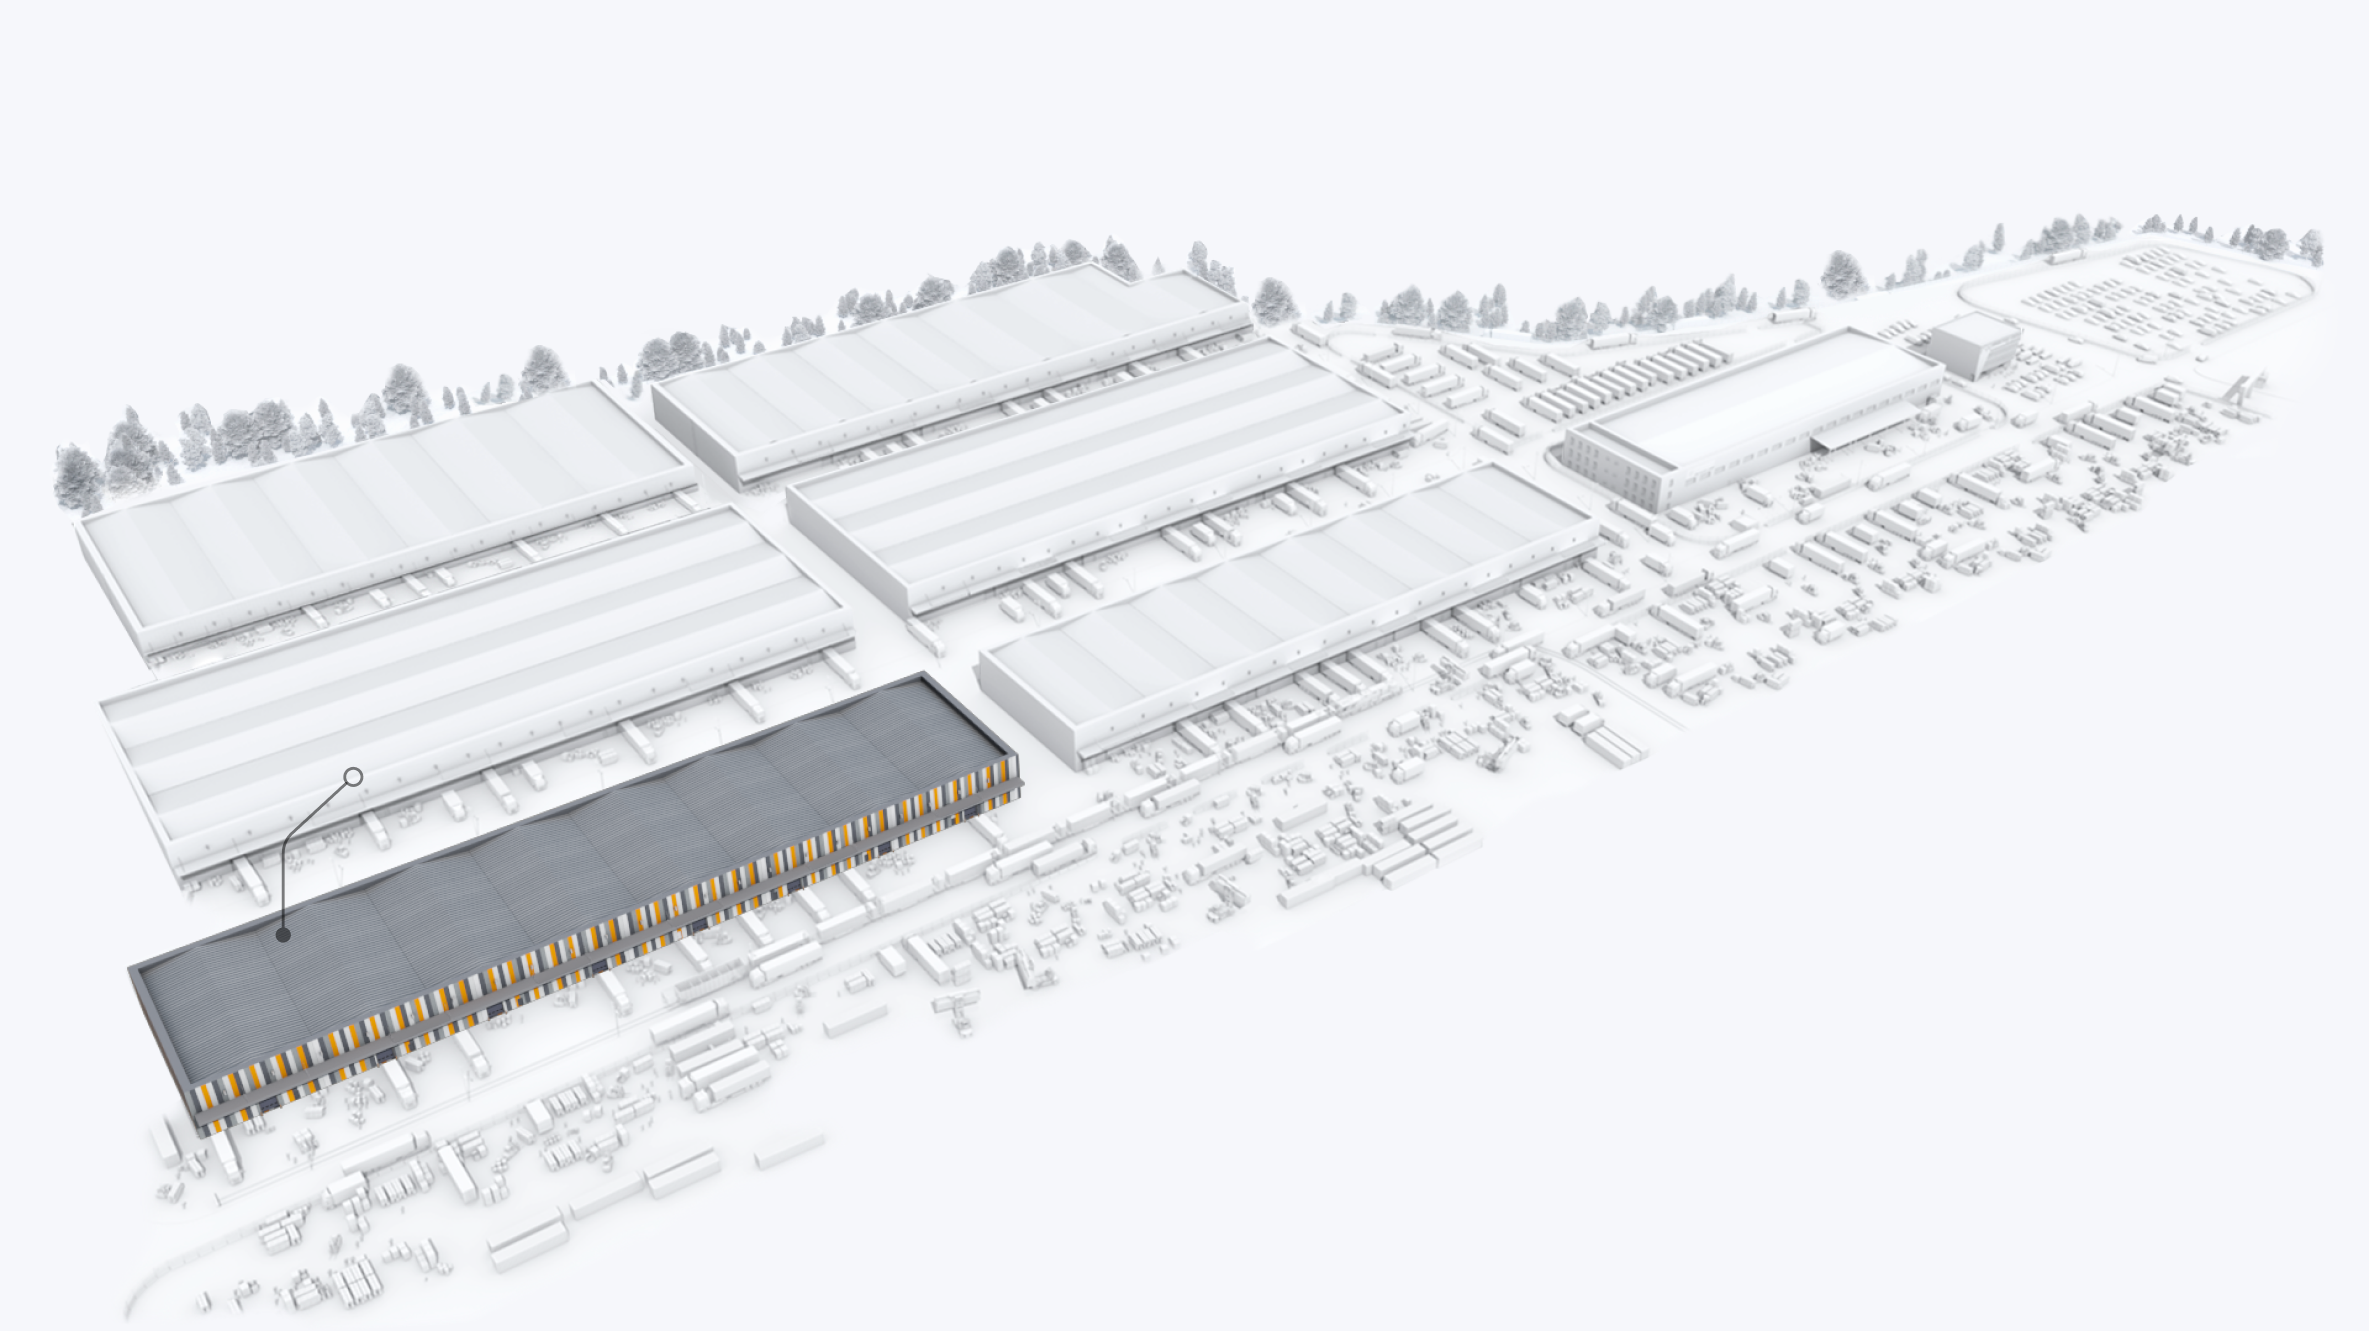
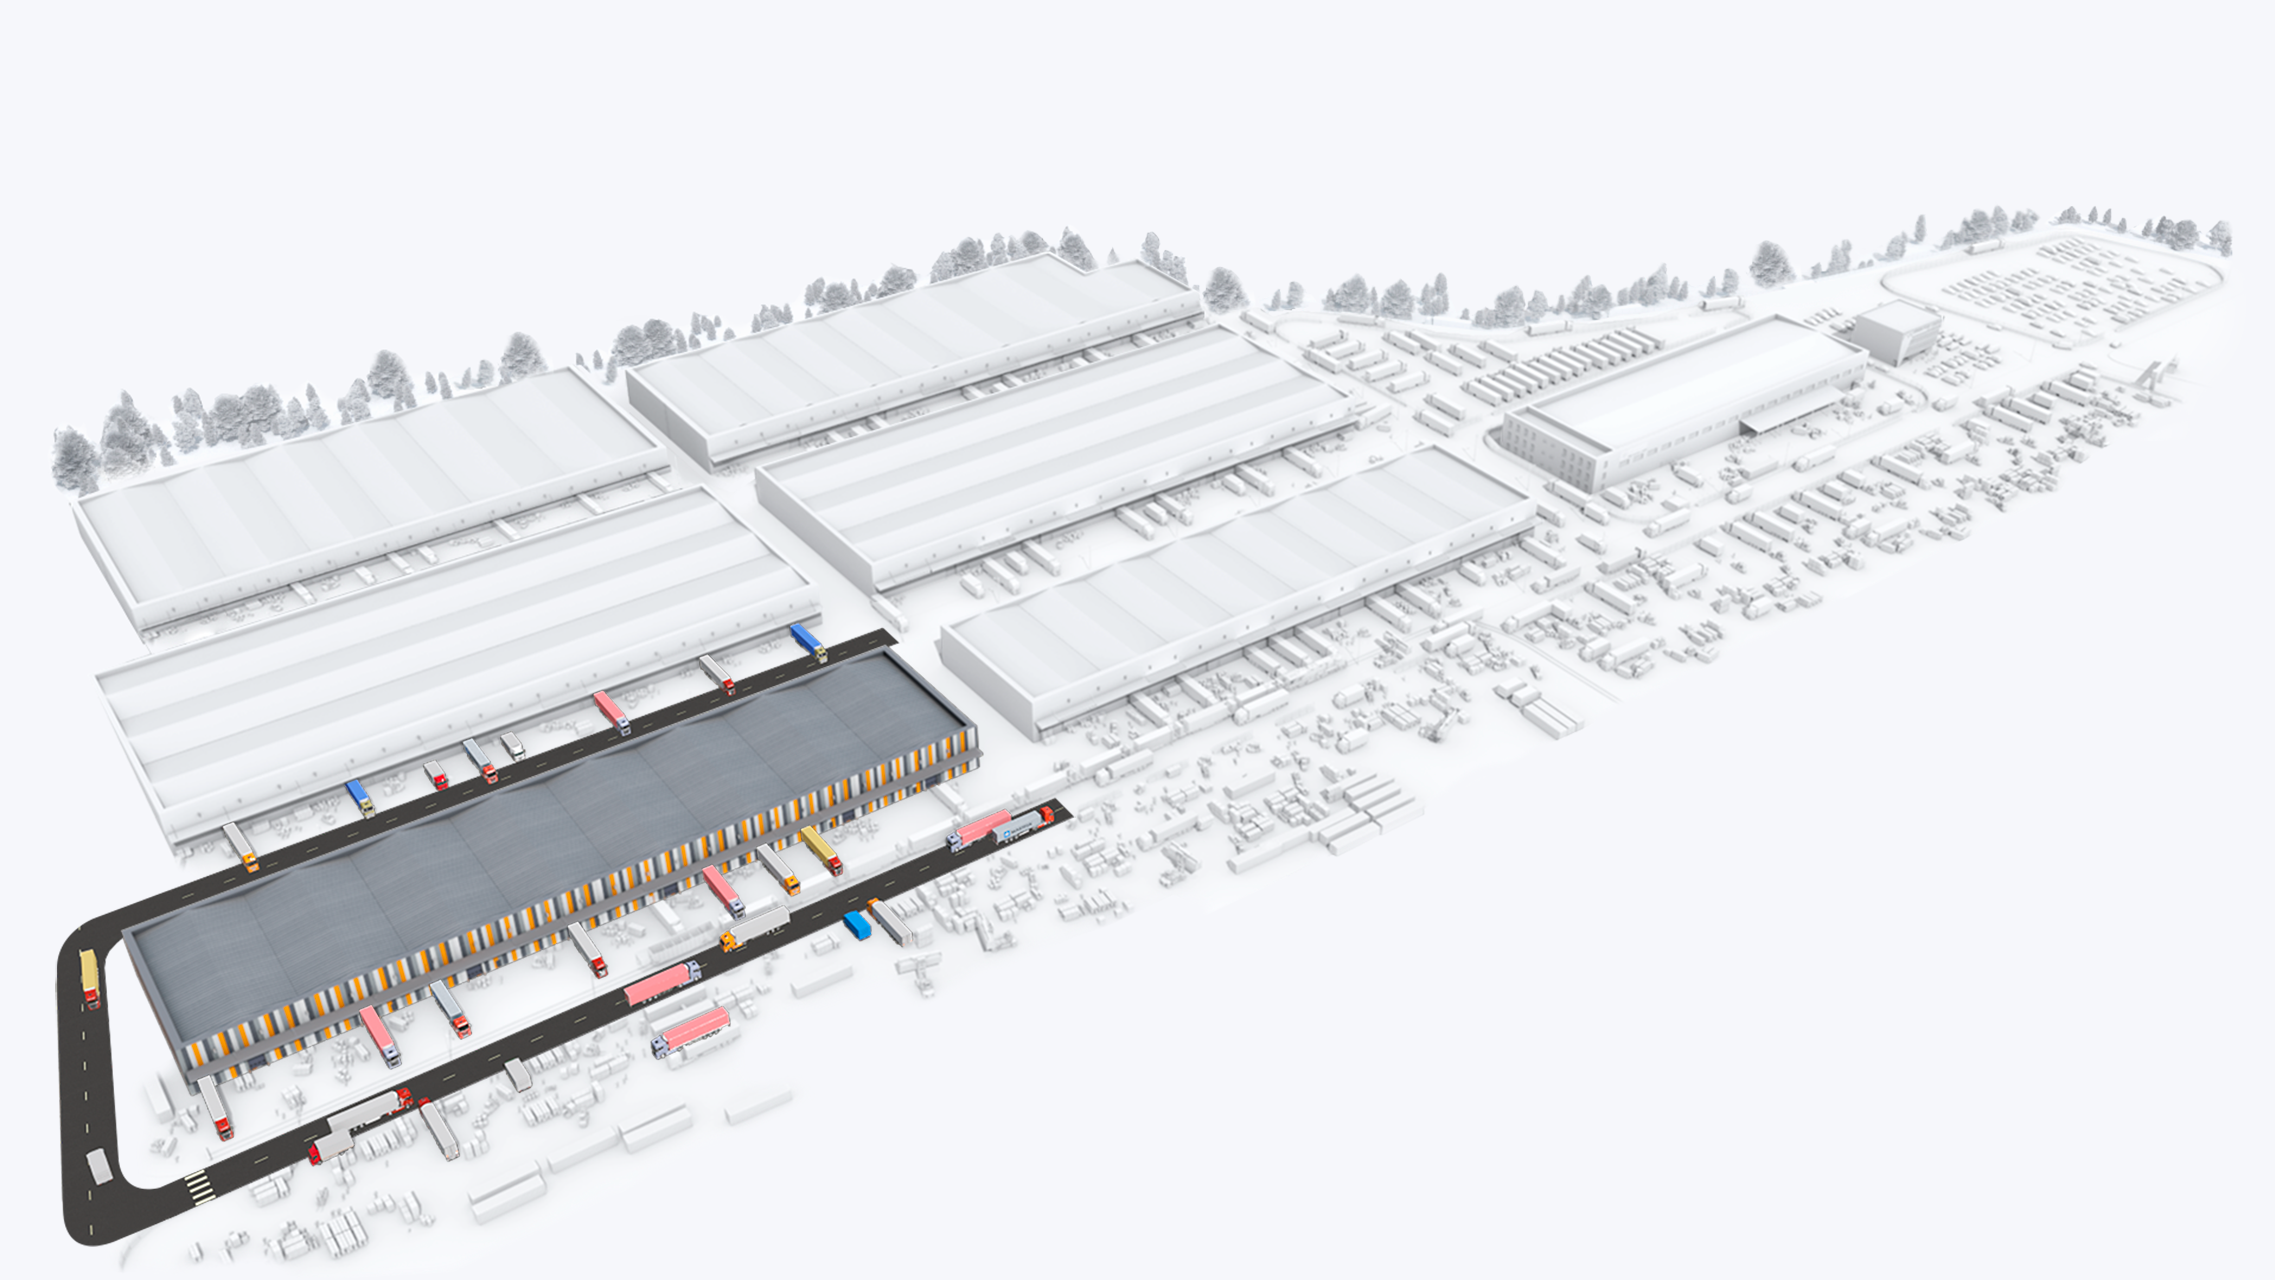
Updated

Changed region(s): [[0.0, 0.4688, 0.4681, 0.9688]]

diff --git a/opportunities/master-plan.html b/opportunities/master-plan.html
@@ -286,6 +286,8 @@
             <img class="Sidepanel-Map-hover-img-item" src="../assets/map/faza_1_b_hover.png" data-target="faza_1_b">
             <img class="Sidepanel-Map-hover-img-item" src="../assets/map/faza_2_a_hover.png" data-target="faza_2_a">
             <img class="Sidepanel-Map-hover-img-item" src="../assets/map/faza_2_b_hover.png" data-target="faza_2_b">
+            <img class="Sidepanel-Map-hover-img-item" src="../assets/map/faza_3_a_hover.png" data-target="faza_3_a">
+            <img class="Sidepanel-Map-hover-img-item" src="../assets/map/faza_3_b_hover.png" data-target="faza_3_b">
         </div>
         <!-- Map images - use unique IDs -->
         <img class="Sidepanel-Map-hover-img" src="../assets/map/empy.png" id="map_default">
@@ -296,90 +298,128 @@
         <img class="Sidepanel-Map-hover-img" src="../assets/map/faza_1_b.png" id="map_faza_1_b">
         <img class="Sidepanel-Map-hover-img" src="../assets/map/faza_2_a.png" id="map_faza_2_a">
         <img class="Sidepanel-Map-hover-img" src="../assets/map/faza_2_b.png" id="map_faza_2_b">
+        <img class="Sidepanel-Map-hover-img" src="../assets/map/faza_3_a.png" id="map_faza_3_a">
+        <img class="Sidepanel-Map-hover-img" src="../assets/map/faza_3_b.png" id="map_faza_3_b">
 
         <div class="Sidepanel-Map-hover-text-group faq-container">
-            <!-- FAQ items -->
             <div class="faq-item Area-Style Info-Text-Group" data-target="azplay">
                 <div class="faq-question">
                     Azplay
                     <img src="../assets/svg/chevron_down.svg" alt="toggle" class="faq-icon">
                 </div>
                 <div class="faq-answer Info-Text-Group">
-                    <p class="Info-Headline">Lorem ipsum dolor sit amet,</p>
+                    <p class="Info-Headline">Total Area: 1,500 x 8,200 m2</p>
                     <p class="Info-Text">
-                        Lorem ipsum dolor sit amet, consectetur adipiscing elit...
+                        A specialized zone dedicated to interactive sports and modern recreational activities for all
+                        ages.
                     </p>
                 </div>
             </div>
+
             <div class="faq-item Area-Style Info-Text-Group" data-target="biznespark">
                 <div class="faq-question">
                     Biznes Park
                     <img src="../assets/svg/chevron_down.svg" alt="toggle" class="faq-icon">
                 </div>
                 <div class="faq-answer Info-Text-Group">
-                    <p class="Info-Headline">Lorem ipsum dolor sit amet,</p>
+                    <p class="Info-Headline">Total Area: 4,300 x 12,000 m2</p>
                     <p class="Info-Text">
-                        Lorem ipsum dolor sit amet, consectetur adipiscing elit...
+                        The central corporate hub featuring high-tech office infrastructure and professional meeting
+                        environments.
                     </p>
                 </div>
             </div>
+
             <div class="faq-item Area-Style Info-Text-Group" data-target="parking">
                 <div class="faq-question">
-                    parking
+                    Parking
                     <img src="../assets/svg/chevron_down.svg" alt="toggle" class="faq-icon">
                 </div>
                 <div class="faq-answer Info-Text-Group">
-                    <p class="Info-Headline">Lorem ipsum dolor sit amet,</p>
+                    <p class="Info-Headline">Total Area: 3,100 x 2,800 m2</p>
                     <p class="Info-Text">
-                        Lorem ipsum dolor sit amet, consectetur adipiscing elit...
+                        Integrated multi-level vehicle storage with automated entry systems and electric charging
+                        stations.
                     </p>
                 </div>
             </div>
+
             <div class="faq-item Area-Style Info-Text-Group" data-target="faza_1_a">
                 <div class="faq-question">
                     Faza 1 A
                     <img src="../assets/svg/chevron_down.svg" alt="toggle" class="faq-icon">
                 </div>
                 <div class="faq-answer Info-Text-Group">
-                    <p class="Info-Headline">Lorem ipsum dolor sit amet,</p>
+                    <p class="Info-Headline">Total Area: 2,400 x 5,500 m2</p>
                     <p class="Info-Text">
-                        Lorem ipsum dolor sit amet, consectetur adipiscing elit...
+                        The initial residential sector focusing on sustainable living spaces and shared community
+                        courtyards.
                     </p>
                 </div>
             </div>
+
             <div class="faq-item Area-Style Info-Text-Group" data-target="faza_1_b">
                 <div class="faq-question">
                     Faza 1 B
                     <img src="../assets/svg/chevron_down.svg" alt="toggle" class="faq-icon">
                 </div>
                 <div class="faq-answer Info-Text-Group">
-                    <p class="Info-Headline">Lorem ipsum dolor sit amet,</p>
+                    <p class="Info-Headline">Total Area: 1,900 x 3,200 m2</p>
                     <p class="Info-Text">
-                        Lorem ipsum dolor sit amet, consectetur adipiscing elit...
+                        A mixed-use development phase combining local retail services with executive apartment blocks.
                     </p>
                 </div>
             </div>
+
             <div class="faq-item Area-Style Info-Text-Group" data-target="faza_2_a">
                 <div class="faq-question">
-                    Faza 1 A
+                    Faza 2 A
                     <img src="../assets/svg/chevron_down.svg" alt="toggle" class="faq-icon">
                 </div>
                 <div class="faq-answer Info-Text-Group">
-                    <p class="Info-Headline">Lorem ipsum dolor sit amet,</p>
+                    <p class="Info-Headline">Total Area: 3,800 x 7,400 m2</p>
                     <p class="Info-Text">
-                        Lorem ipsum dolor sit amet, consectetur adipiscing elit...
+                        Secondary expansion zone dedicated to green landscapes and pedestrian-friendly urban pathways.
                     </p>
                 </div>
             </div>
+
             <div class="faq-item Area-Style Info-Text-Group" data-target="faza_2_b">
                 <div class="faq-question">
-                    Faza 1 B
+                    Faza 2 B
                     <img src="../assets/svg/chevron_down.svg" alt="toggle" class="faq-icon">
                 </div>
                 <div class="faq-answer Info-Text-Group">
-                    <p class="Info-Headline">Lorem ipsum dolor sit amet,</p>
+                    <p class="Info-Headline">Total Area: 5,100 x 9,000 m2</p>
                     <p class="Info-Text">
-                        Lorem ipsum dolor sit amet, consectetur adipiscing elit...
+                        Extended commercial sector providing space for large-scale administrative and financial
+                        institutions.
+                    </p>
+                </div>
+            </div>
+
+            <div class="faq-item Area-Style Info-Text-Group" data-target="faza_3_a">
+                <div class="faq-question">
+                    Faza 3 A
+                    <img src="../assets/svg/chevron_down.svg" alt="toggle" class="faq-icon">
+                </div>
+                <div class="faq-answer Info-Text-Group">
+                    <p class="Info-Headline">Total Area: 11,000 x 15,000 m2</p>
+                    <p class="Info-Text">
+                        Large industrial quadrant optimized for advanced logistics and smart warehousing solutions.
+                    </p>
+                </div>
+            </div>
+
+            <div class="faq-item Area-Style Info-Text-Group" data-target="faza_3_b">
+                <div class="faq-question">
+                    Faza 3 B
+                    <img src="../assets/svg/chevron_down.svg" alt="toggle" class="faq-icon">
+                </div>
+                <div class="faq-answer Info-Text-Group">
+                    <p class="Info-Headline">Total Area: 2,200 x 4,600 m2</p>
+                    <p class="Info-Text">
+                        Final utility sector housing the main energy grid and facility management operations.
                     </p>
                 </div>
             </div>

diff --git a/js/map.js b/js/map.js
@@ -427,3 +427,86 @@ document.addEventListener('DOMContentLoaded', function() {
         }, { passive: true });
     });
 })();
+
+
+document.querySelectorAll('.Sidepanel-Map-hover-img-item').forEach(img => {
+    const canvas = document.createElement('canvas');
+    const ctx = canvas.getContext('2d');
+
+    img.addEventListener('load', () => {
+        canvas.width = img.naturalWidth;
+        canvas.height = img.naturalHeight;
+        ctx.drawImage(img, 0, 0);
+    });
+
+    function isOpaquePixel(event) {
+        const rect = img.getBoundingClientRect();
+        const x = Math.floor((event.clientX - rect.left) * (img.naturalWidth / rect.width));
+        const y = Math.floor((event.clientY - rect.top) * (img.naturalHeight / rect.height));
+
+        if (x < 0 || y < 0 || x >= canvas.width || y >= canvas.height) {
+            return false;
+        }
+
+        const alpha = ctx.getImageData(x, y, 1, 1).data[3];
+        return alpha > 10; // threshold for transparency
+    }
+
+    img.addEventListener('mousemove', e => {
+        if (isOpaquePixel(e)) {
+            img.classList.add('pixel-hover');
+        } else {
+            img.classList.remove('pixel-hover');
+        }
+    });
+
+    img.addEventListener('mouseleave', () => {
+        img.classList.remove('pixel-hover');
+    });
+});
+
+document.querySelectorAll('.Sidepanel-Map-hover-img-item').forEach(img => {
+    const canvas = document.createElement('canvas');
+    const ctx = canvas.getContext('2d');
+
+    const originalZ = getComputedStyle(img).zIndex || 'auto';
+
+    function drawImageToCanvas() {
+        canvas.width = img.naturalWidth;
+        canvas.height = img.naturalHeight;
+        ctx.drawImage(img, 0, 0);
+    }
+
+    if (img.complete) {
+        drawImageToCanvas();
+    } else {
+        img.addEventListener('load', drawImageToCanvas);
+    }
+
+    function isOpaquePixel(event) {
+        const rect = img.getBoundingClientRect();
+        const x = Math.floor((event.clientX - rect.left) * (img.naturalWidth / rect.width));
+        const y = Math.floor((event.clientY - rect.top) * (img.naturalHeight / rect.height));
+
+        if (x < 0 || y < 0 || x >= canvas.width || y >= canvas.height) {
+            return false;
+        }
+
+        return ctx.getImageData(x, y, 1, 1).data[3] > 10;
+    }
+
+    img.addEventListener('mousemove', e => {
+        if (isOpaquePixel(e)) {
+            img.classList.add('pixel-hover');
+            img.style.zIndex = '2';
+        } else {
+            img.classList.remove('pixel-hover');
+            img.style.zIndex = originalZ;
+        }
+    });
+
+    img.addEventListener('mouseleave', () => {
+        img.classList.remove('pixel-hover');
+        img.style.zIndex = originalZ;
+    });
+});

diff --git a/style.css b/style.css
@@ -3850,3 +3850,55 @@ body.zoom-085 .Image-hover-items img:nth-child(7) {
     width: 31vw;
     z-index: 0;
 }
+
+
+.Image-hover-items img:nth-child(8) {
+    right: 56.5vw;
+    top: 28.2vw;
+    height: fit-content;
+    width: 37.6vw;
+    z-index: 0;
+    opacity: 0;
+}
+
+body.zoom-08 .Image-hover-items img:nth-child(8) {
+       right: 70.5vw;
+    top: 35.2vw;
+    height: fit-content;
+    width: 47vw;
+    z-index: 0;
+}
+
+body.zoom-085 .Image-hover-items img:nth-child(8) {
+       right: 66.5vw;
+    top: 33.2vw;
+    height: fit-content;
+    width: 44vw;
+    z-index: 0;
+}
+
+
+.Image-hover-items img:nth-child(9) {
+    right: 32vw;
+    top: 19.2vw;
+    height: fit-content;
+    width: 26.2vw;
+    z-index: 0;
+    opacity: 0;
+}
+
+body.zoom-08 .Image-hover-items img:nth-child(9) {
+    right: 40vw;
+    top: 24vw;
+    height: fit-content;
+    width: 32.8vw;
+    z-index: 0;
+}
+
+body.zoom-085 .Image-hover-items img:nth-child(9) {
+    right: 37.5vw;
+    top: 22.5vw;
+    height: fit-content;
+    width: 31vw;
+    z-index: 0;
+}
